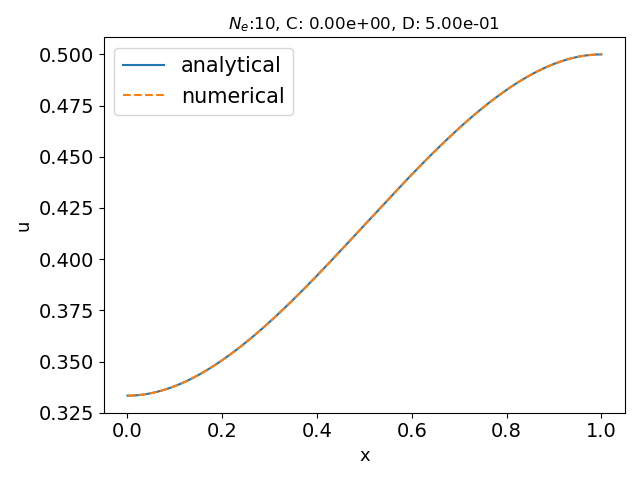
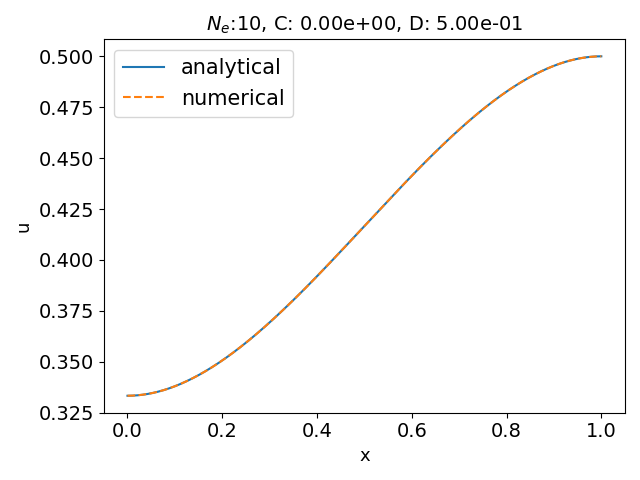
Last touch

diff --git a/FEM1D_project/FEM_P2.py b/FEM1D_project/FEM_P2.py
@@ -9,6 +9,11 @@ class FEM_P2_solver():
     P2 elements.
     """
     def __init__(self,C,D,Ne):
+        """
+        Initiates the solver
+        - Input:
+            C (float), D (float) and Ne (int)
+        """
         self.C = C          # Neumann condition
         self.D = D          # Dirichlet condition
         self.Ne = Ne        # Number of elements, each with three nodes.
@@ -34,11 +39,10 @@ class FEM_P2_solver():
         # Set up element
         self.elements = [[i*self.oth,i*self.oth+1,i*self.oth+2] for i in range(self.Ne)]
         self.local_nodes = len(self.elements[0])
+
         # Set up final matrix A, numerical solution u and right hand side b
         self.A = np.zeros((self.n_nodes,self.n_nodes))
         self.b = np.zeros(self.n_nodes);
-        #print(self.A)#print(self.nodes_m)#print(self.h) #print(elements)
-        #print(self.nodes_m)
 
     def setup_element_matrix(self):
         """
@@ -52,8 +56,8 @@ class FEM_P2_solver():
         self.A_e[1,0] = self.A_e[0,1] = -8
         self.A_e[oth,0] = self.A_e[0,oth] = 1
 
-        self.A_e = 1/(3*h)*self.A_e     # The final A matrix check
-                                   # if constant can be factored out in the end
+        self.A_e = 1/(3*h)*self.A_e
+
     def setup_element_matrixN(self):
         """
         Set up special element matrix to enforce Dirichlet condition
@@ -72,13 +76,11 @@ class FEM_P2_solver():
 
         self.A_n = 1/(3*h)*self.A_n
 
-
-
     def evaluate_num(self,x):
         """
         Evaluates the numerical solution at mesh points
         """
-        ## Decide what local node a globale node lies within with use of modulo
+        ## Could decide what local node a globale node lies within with use of modulo
         ## but here is the easier way, but maybe less efficient way chosen
         ## Set up basis functions
         self.psi = lambda x,a,b,c: (x-b)/(a-b)*(x-c)/(a-c);
@@ -87,9 +89,6 @@ class FEM_P2_solver():
         j = 0; i = 0
         while j <= len(self.nodes)-1:
             while i < len(x) and x[i] <= self.nodes[j+2]:
-                #print('j:',j)
-                #print('xi:',x[i])
-                #print('node:',self.nodes[j+2])
                 self.u[i] = self.c[j]*self.psi(x[i],self.nodes[j],self.nodes[j+1],self.nodes[j+2]) + \
                 self.c[j+1]*self.psi(x[i],self.nodes[j+1],self.nodes[j],self.nodes[j+2]) + \
                 self.c[j+2]*self.psi(x[i],self.nodes[j+2],self.nodes[j],self.nodes[j+1])
@@ -142,10 +141,12 @@ class FEM_P2_solver():
         # Alter last index right hand side
         r = local_nodes-1
         self.b[self.elements[e][r]] = self.D
-        #print(self.b[self.elements[e][r]])
 
 
     def find_b_ref(self):
+         """
+         find the b's on the reference element
+         """
          x, x_m, h, X = sp.symbols('x x_m h X')         # make symbols
          x = x_m + h/2*X                                # Apply transformation
          wrt = (X, -1, 1)                               # Interval and variable
@@ -172,6 +173,9 @@ class FEM_P2_solver():
             self.c = np.linalg.solve(self.A,self.b)
 
     def get_numerical_solution(self,x):
+        """
+        Solves the system with output numerical solution
+        """
         self.x = x;
         self.assemble()
         self.solve_linear()
@@ -186,7 +190,7 @@ class FEM_P2_solver():
     def L2_norm(self):
         """
         Calculate the L2-norm by approximating the integral as a sum
-        """                          # Interval and variable
+        """
         L2 = np.sqrt(self.h*sum((self.exact(self.x)-self.u)**2))
         return L2, self.h
 
@@ -196,7 +200,7 @@ class FEM_P2_solver():
         """
         plt.plot(self.x,self.exact(self.x),'-',label = "analytical")
         plt.plot(self.x,self.u,'--', label = "numerical")
-        plt.title("$N_e$:{:d}, C: {:0.2e}, D: {:.2e}".format(self.Ne,self.C,self.D))
+        plt.title("$N_e$:{:d}, C: {:0.2e}, D: {:.2e}".format(self.Ne,self.C,self.D),fontsize = 14)
         plt.xlabel("x",fontsize = 13)
         plt.ylabel("u",fontsize = 13)
         plt.legend(loc = "upper left",fontsize = 15)

diff --git a/FEM1D_project/README.md b/FEM1D_project/README.md
@@ -1,0 +1,36 @@
+# FYS4150-Project2: Eigenvalue Problems
+Git for Project 2 in Numerical methods for partial differential equations (IN5270).
+
+### Main overview
+* The programmes in this repository aim at solving the questions about a 1D poisson equation posed in the project 2 description: [Project 2 - Finite Element Methods on a 1D PDE ](https://github.com/lasse-steinnes/IN5270/blob/master/FEM1D_project/Report/in5270_project2_description.pdf). The final report can be found at: [Solving a 1D Poisson Equation with the Galerkin Finite Element Method](https://github.com/lasse-steinnes/IN5270/blob/master/FEM1D_project/Report/SteinnesLSolving-a-1D-Poisson-Equation-with-the-Galerkin-Finite-Element-Method.pdf).
+
+* The main challenge was to create a Finite Element Method solver using the Galerkin method, also known as the Projection method, and tailor the algorithm to solve a 1D poisson equation. Here, P2-elements were used. The problem boils down to linear algebra and solving a linear system.
+
+* Another central task was to compute the L2-norm of the error, and find the converge rate.
+
+* Figures can be found in the folder figures.
+
+### Code: Link and description of programmes
+- [main.py](https://github.com/lasse-steinnes/IN5270/blob/master/FEM1D_project/main.py) : Runs the methods provided by the class FEM_P2_solver.
+
+
+- [FEM_P2.py](https://github.com/lasse-steinnes/IN5270/blob/master/FEM1D_project/FEM_P2.py) : Class methods provided are given in following order
+  1. initialize : Set up the elements, boundary condtions, nodes and other essential parameters
+  2. setup_element_matrix: Sets up element matrix for reference domain
+  3. setup_element_matrixN: Sets up special element for last reference cell.
+  4. Evaluate_num: Evaluates the numerical solution at mesh points
+  5. Assemble: Assembles the global matrix
+  6. find_b_ref: Find the right hand side element vector on the reference domain
+  7. solve_linear: Solves the global linear system
+  8. get_numerical_solution: Uses the other methods and returns u_num
+  9. exact: Gives the exact solution as a function of x
+  10. l2-norm: Calculates the l2 norm of e = u_e - u_num
+  11. plot: Plots the numerical and analytical solution in the same figure
+
+How to run the programmes to reproduce the results discussed in the article: The menu gives input options for C, D, number of elements to use (Ne) and if you want to plot or calculate the convergence rates. To calculate convergence rates, a number of experiments must be provided. For each experiment Ne = 4*Ne and h = 1/N_e. To reproduce the convergence rates described in the paper, use [C:1, D:8, 5 elements 7 experiments] and  [C:0, D:0.5, 5 elements 7 experiments].
+
+### Links and packages
+  - Documentation for numpy [here](https://numpy.org/doc/)
+  - Documentation for matplotlib [here](https://matplotlib.org/)
+  - Documentation for sympy [here](https://docs.sympy.org/latest/index.html)
+  - Documentation for pentapy [here](https://geostat-framework.readthedocs.io/projects/pentapy/en/stable/)
